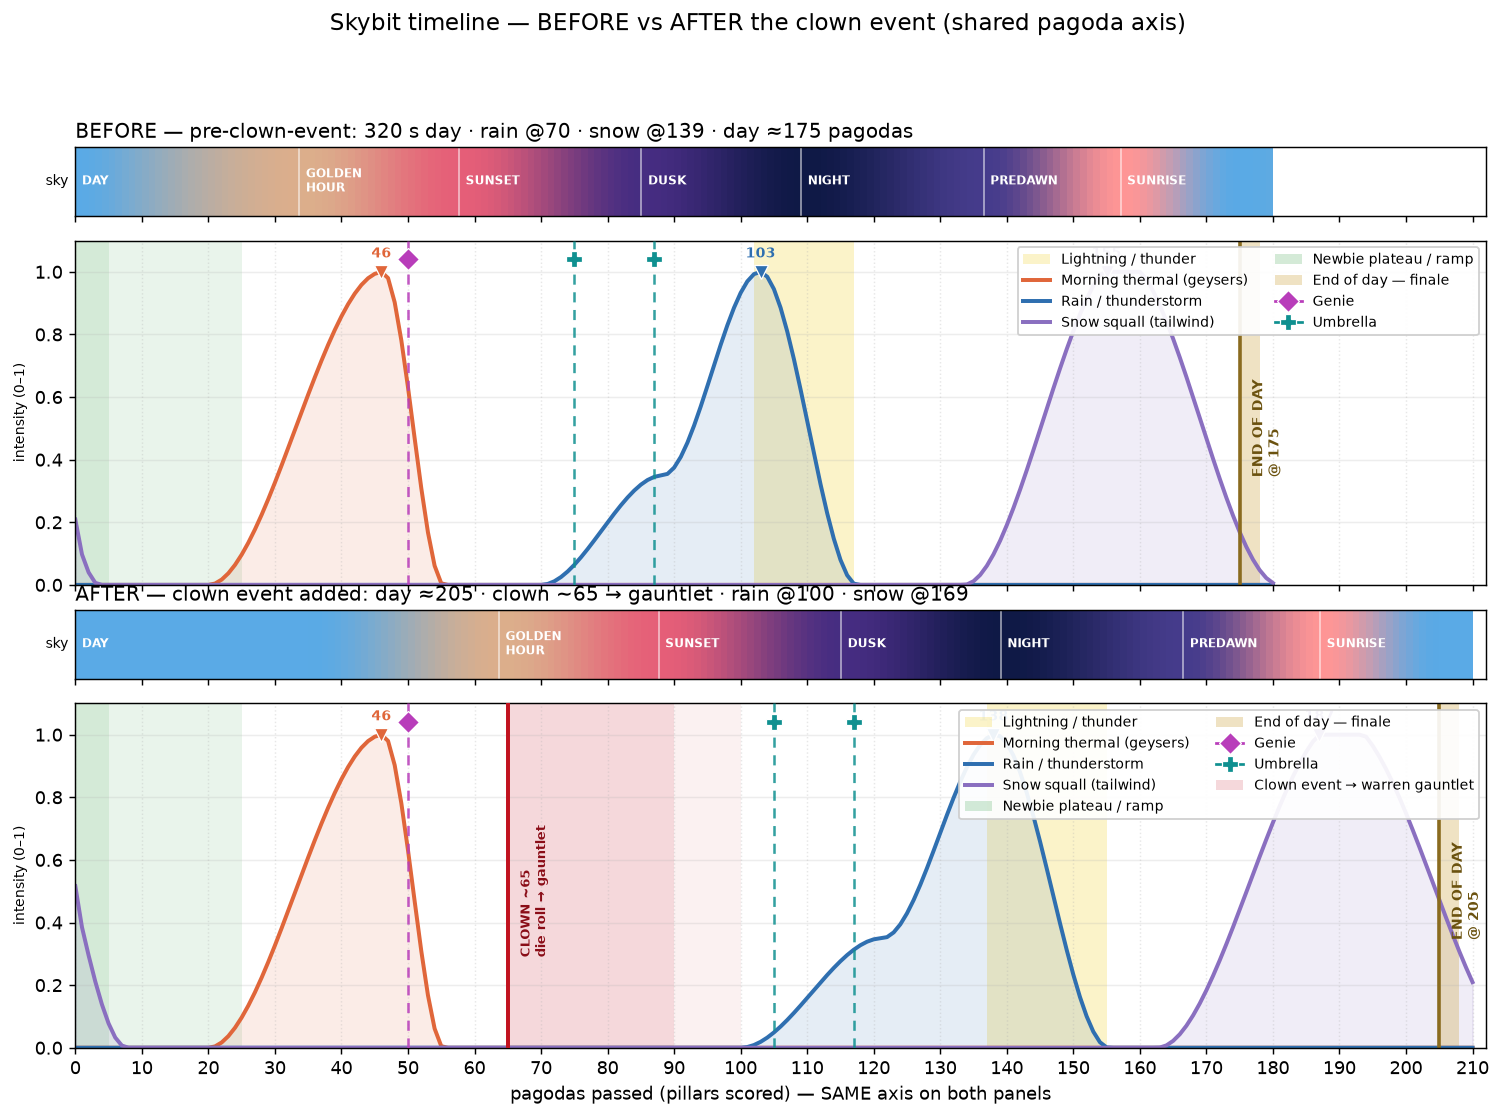
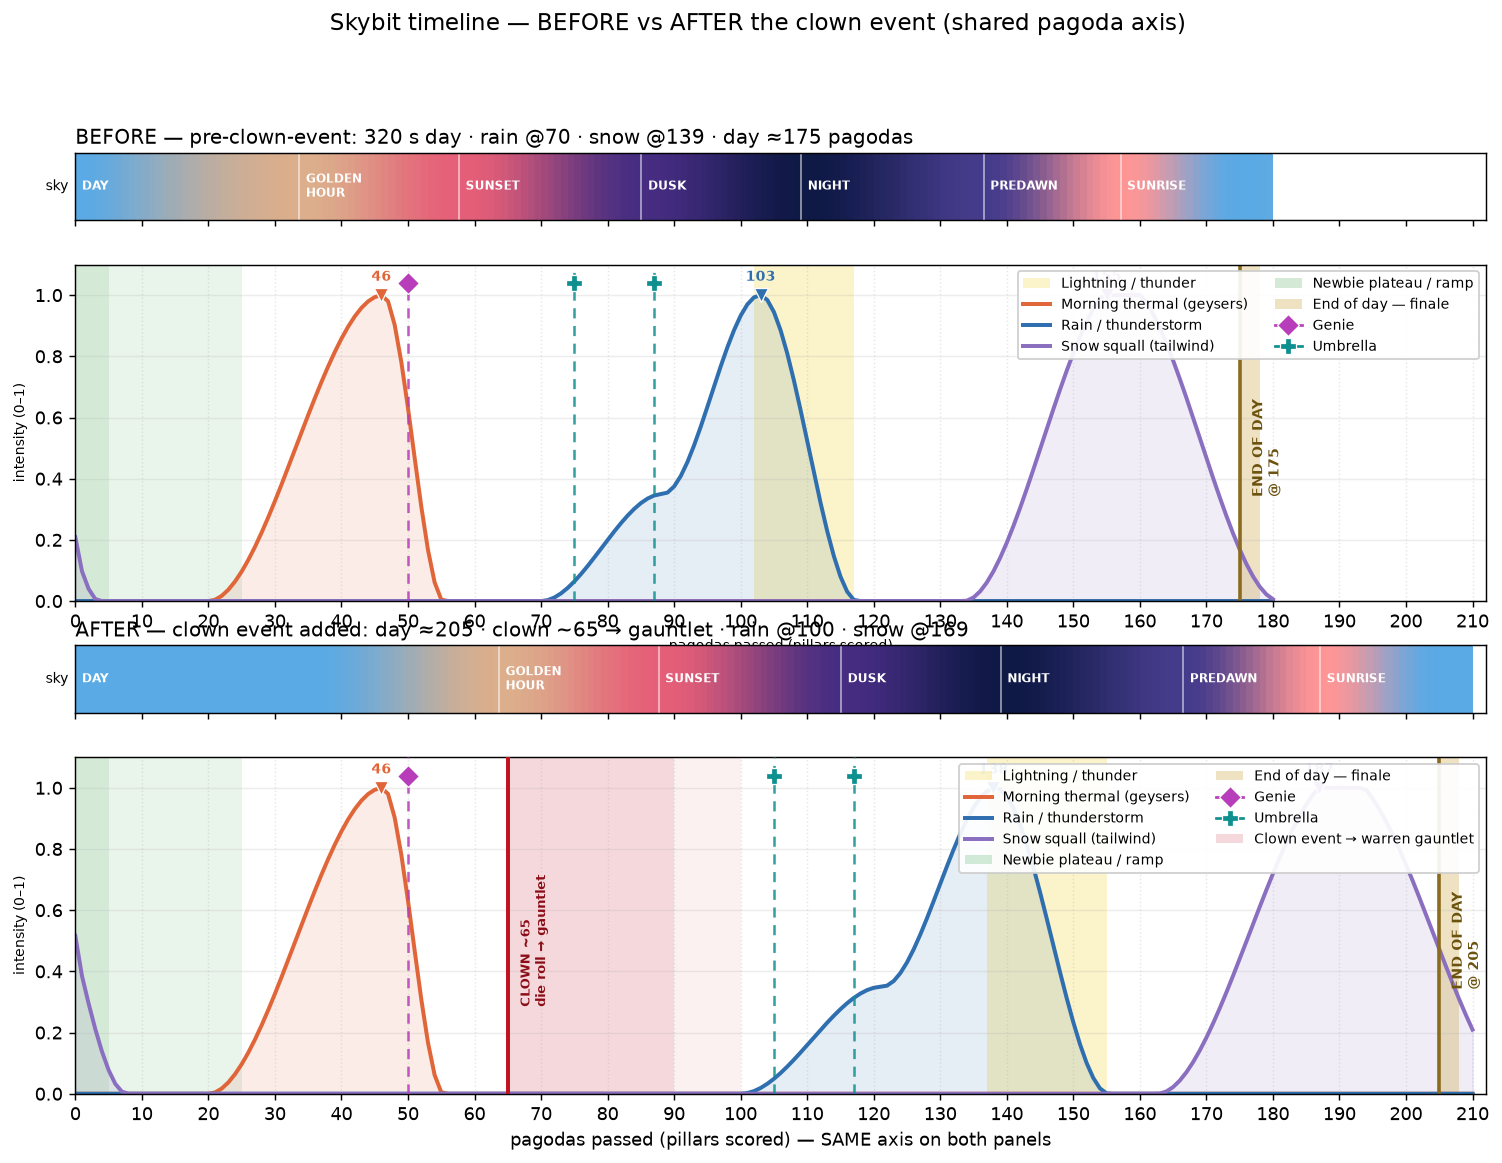
docs: repeat the pagoda x-axis under the BEFORE panel too
sharex hid the upper panel's tick labels, forcing a glance to the very bottom to
read the scale. Re-enable labelbottom + an x-label on the BEFORE curve panel (and
widen the row gap) so the pagoda axis is readable between the two graphs.

Claude-Session: https://claude.ai/code/session_01R8Xv9wnQCdkf5ozFZzZReZ

diff --git a/tools/plot_timeline_before_after.py b/tools/plot_timeline_before_after.py
@@ -184,8 +184,8 @@ def main():
     xmax = D_new["day_end"] + config.CYCLE_FINALE_RUSH_PILLARS + 4
 
     fig, (axs_o, axc_o, axs_n, axc_n) = plt.subplots(
-        4, 1, figsize=(14, 9), dpi=130,
-        gridspec_kw=dict(height_ratios=[1, 5, 1, 5], hspace=0.12),
+        4, 1, figsize=(14, 9.4), dpi=130,
+        gridspec_kw=dict(height_ratios=[1, 5, 1, 5], hspace=0.22),
         sharex=True)
 
     _draw_panel(axs_o, axc_o, D_old,
@@ -198,6 +198,10 @@ def main():
                 f"snow @{config.SNOW_START_PILLAR}",
                 show_clown=True, xmax=xmax)
 
+    # Repeat the pagoda axis under the BEFORE panel too (sharex hides it by
+    # default) so the scale is readable in the gap between the two graphs.
+    axc_o.tick_params(axis="x", labelbottom=True)
+    axc_o.set_xlabel("pagodas passed (pillars scored)", fontsize=8)
     axc_n.set_xlabel("pagodas passed (pillars scored) — SAME axis on both panels")
     for ax in (axc_o, axc_n):
         h, l = ax.get_legend_handles_labels()
